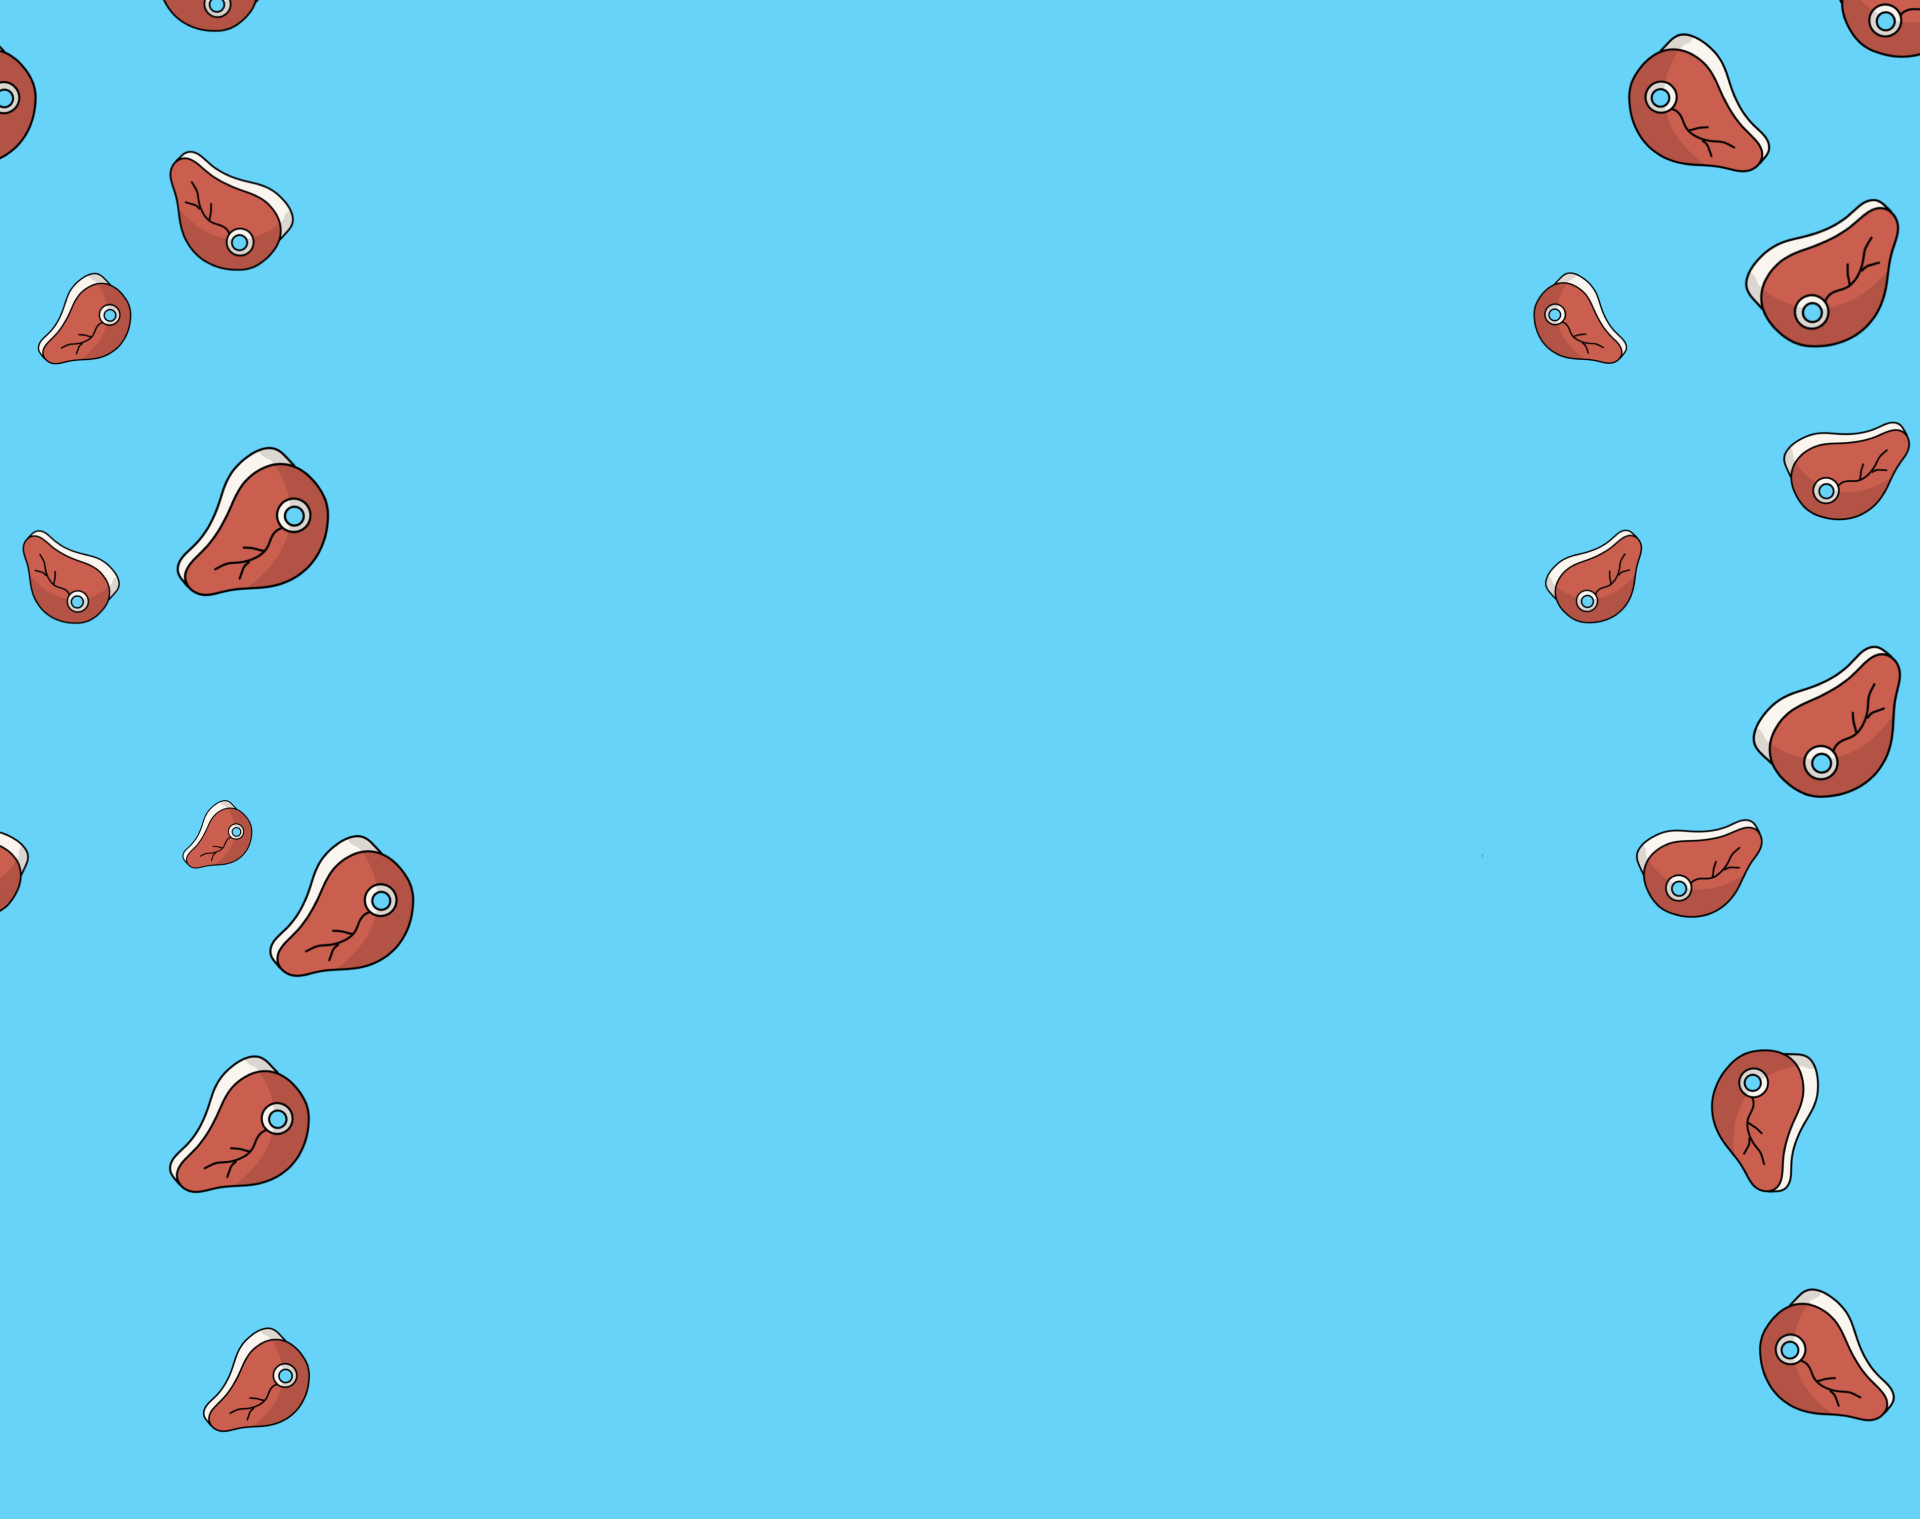
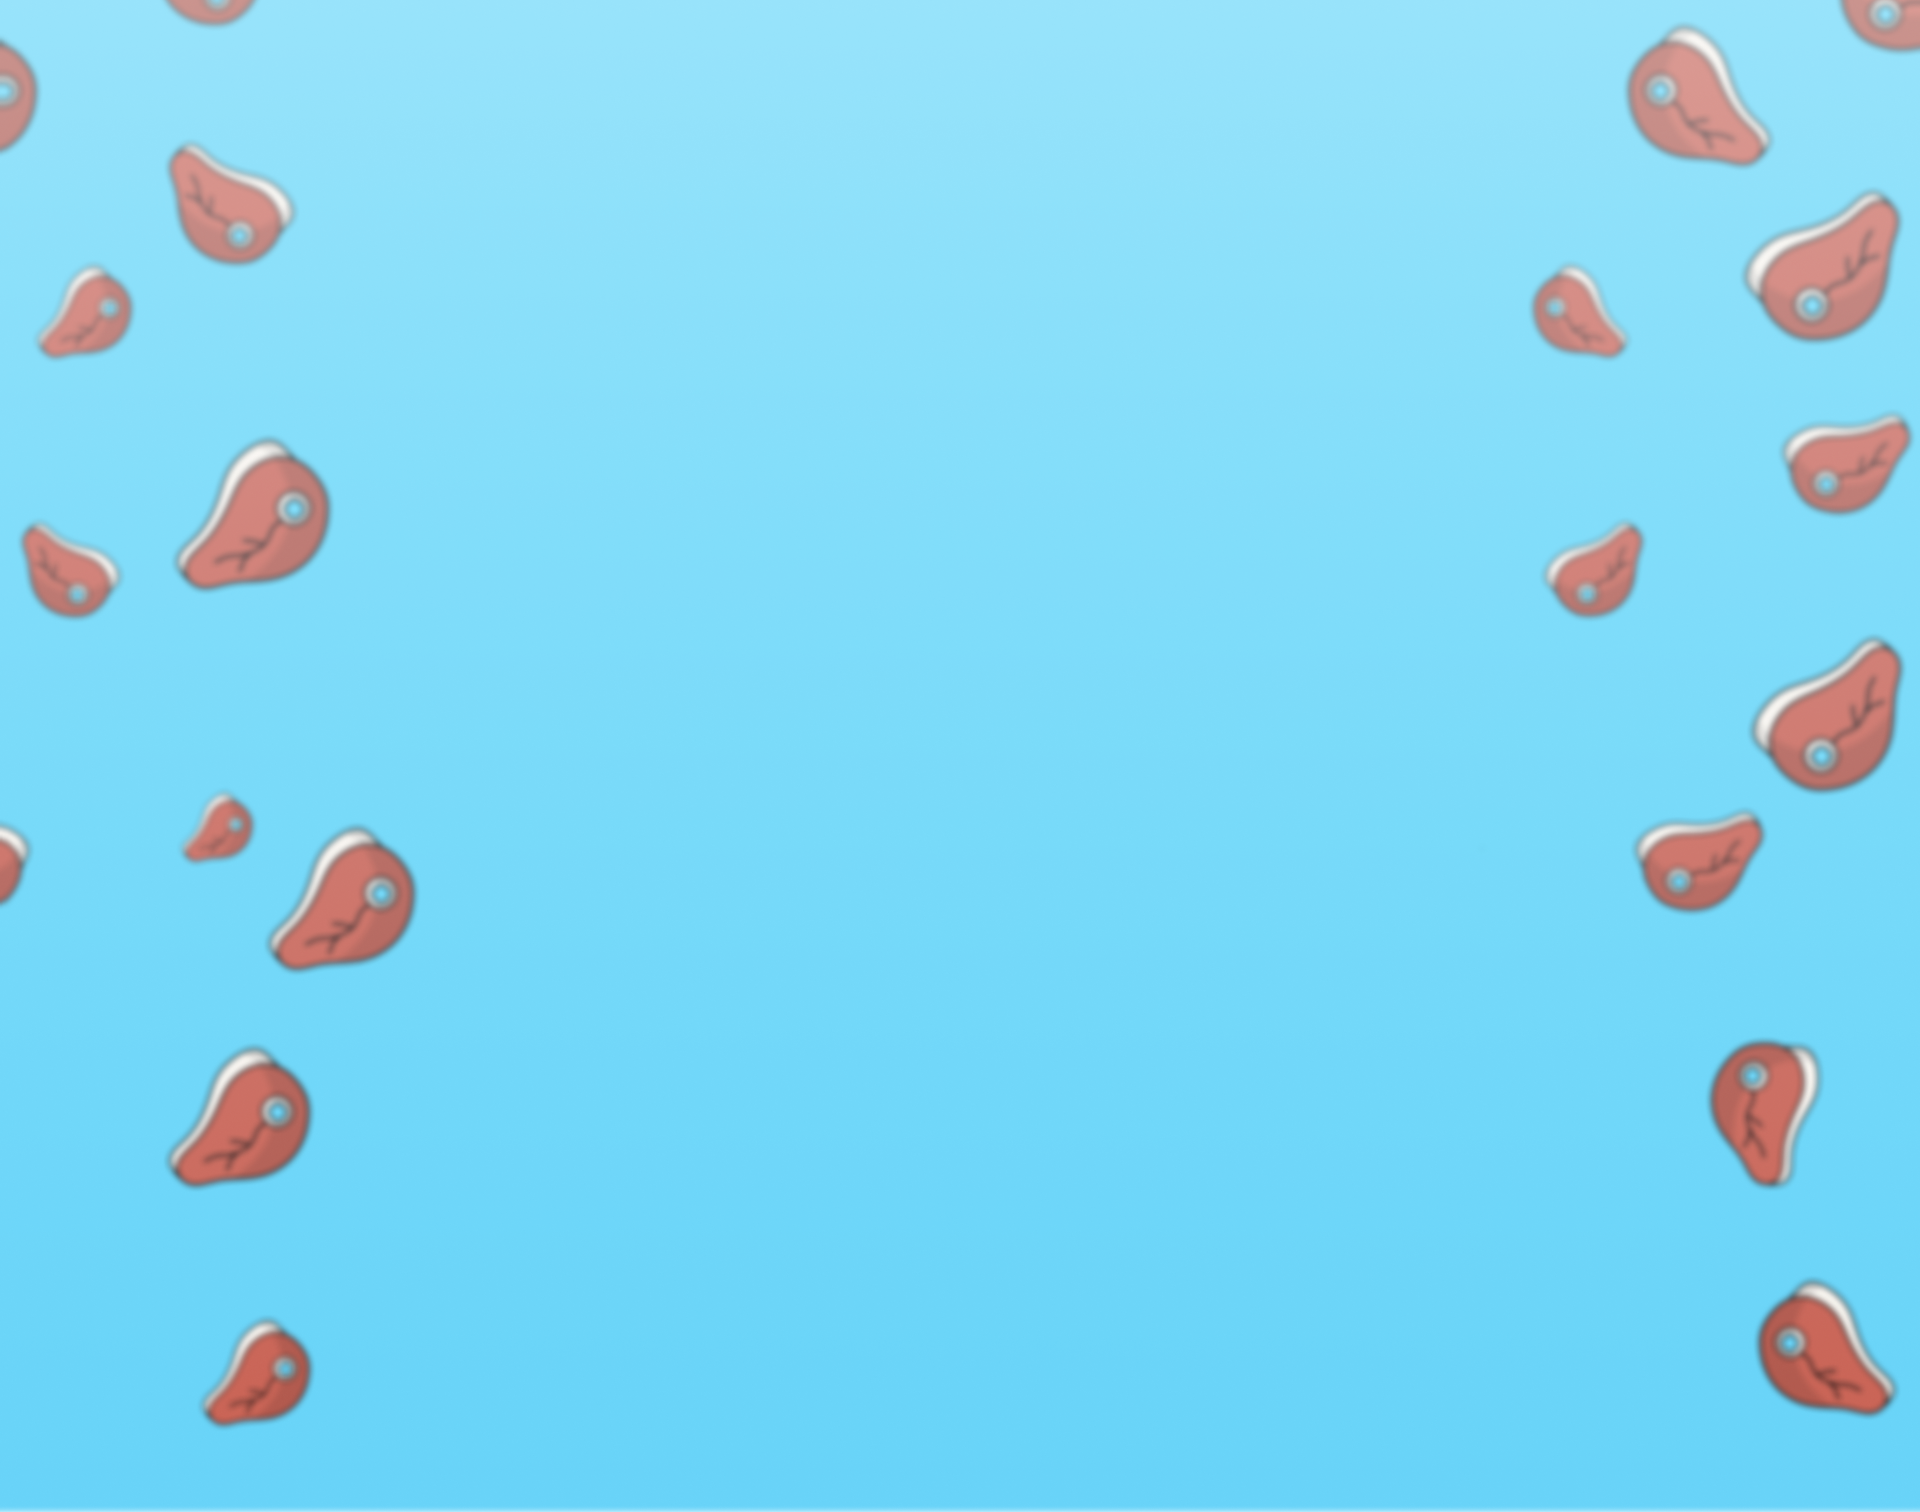
FAQS small details "

diff --git a/components/Info/FaqsContent.tsx b/components/Info/FaqsContent.tsx
@@ -11,7 +11,7 @@ export default function FaqsContent() {
             </div>
             <div className='relative inline-block'>
                 <h1 className='font-extrabold text-white text-6xl lg:text-6xl xl:text-8xl 2xl:text-9xl'>ANSWERED</h1>
-                <h2 className='absolute right-0 -top-10 lg:text-xl md:text-lg xl:text-2xl 2xl:text-3xl text-white' >your questions</h2>
+                <h2 className='absolute right-0 -top-10 lg:text-xl md:text-lg xl:text-2xl 2xl:text-3xl text-white' >your questions,</h2>
             </div>
 
 
@@ -28,12 +28,15 @@ export default function FaqsContent() {
 
 function FAQ({ title }: { title: string }) {
     const [open, setOpen] = useState(false);
+    const toggle = () => {
+        setOpen(!open); 
+    }
     return (
         <div className='border-t border-black py-4'>
-            <div className='flex justify-between items-center'>
+            <div onClick={() => { toggle() }} className='flex justify-between items-center'>
                 <h1  className='font-extrabold 2xl:text-5xl xl:text-4xl lg:text-3xl md:text-2xl text-xl'>{title}?</h1>
-                {!open && <h1 onClick={() => { setOpen(true) }} style={{ fontSize: '45px' }} className={'cursor-pointer'} >+</h1>}
-                {open && <h1 onClick={() => { setOpen(false) }} style={{ fontSize: '45px' }} className={'cursor-pointer'} >x</h1>}
+                {!open && <h1  style={{ fontSize: '45px' }} className={'cursor-pointer'} >+</h1>}
+                {open && <h1  style={{ fontSize: '45px' }} className={'cursor-pointer'} >x</h1>}
             </div>
 
 

diff --git a/components/Info/Info.tsx b/components/Info/Info.tsx
@@ -10,7 +10,7 @@ export default function Info({ children, height }: {children: any, height: strin
                 backgroundImage: `url(${Bg.src})`,
                 backgroundSize:'cover',
                 backgroundPosition: 'center',
-                filter: 'blur(2px)', 
+               
                 minHeight:height
             }}>
             </div>
@@ -18,7 +18,7 @@ export default function Info({ children, height }: {children: any, height: strin
                 backgroundImage: `url(${MobileBg.src})`,
                 backgroundSize:'cover',
                 backgroundPosition: 'center',
-                filter: 'blur(2px)', 
+               
                 marginTop:'73px', 
                 minHeight:height
             }}>
